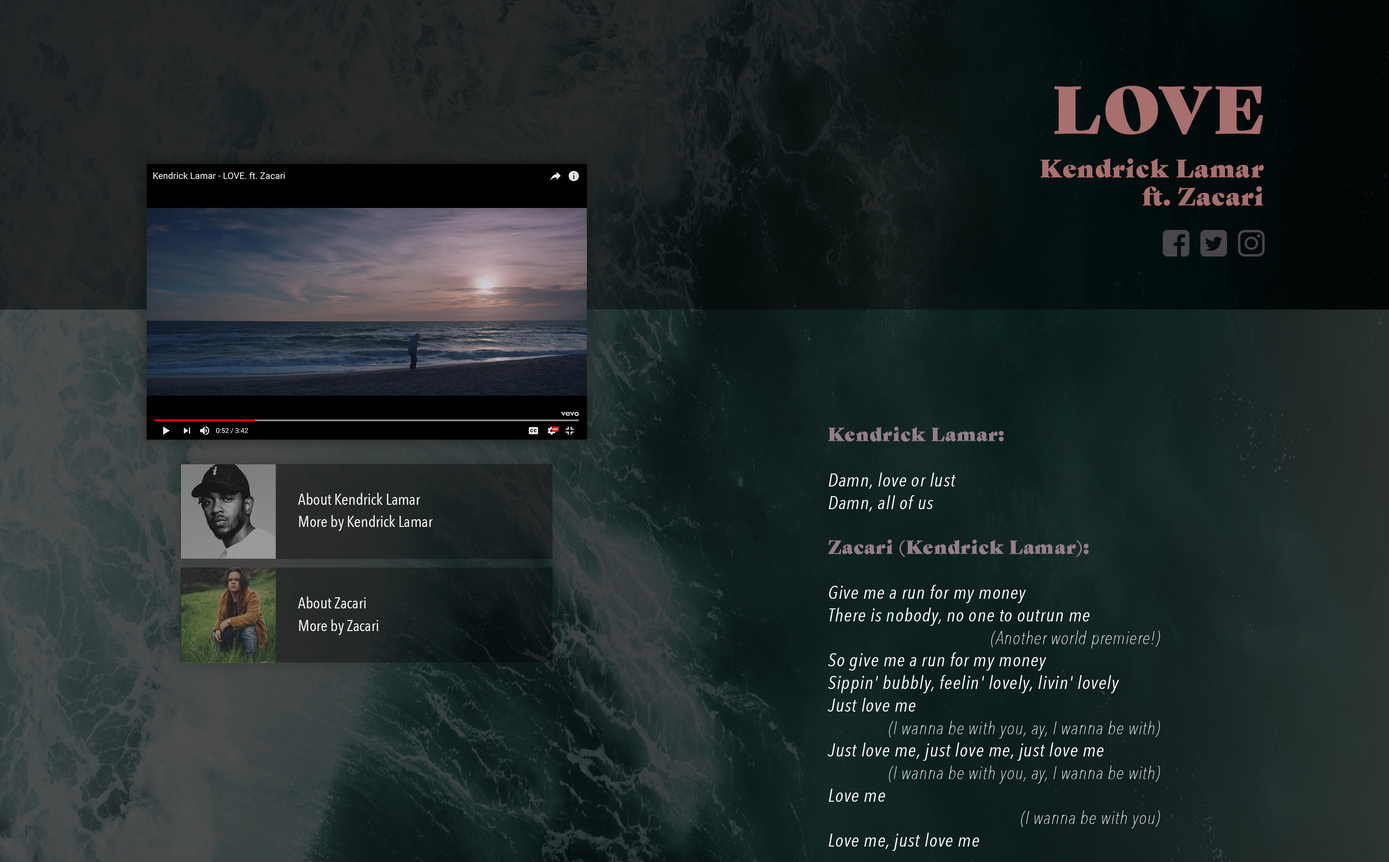
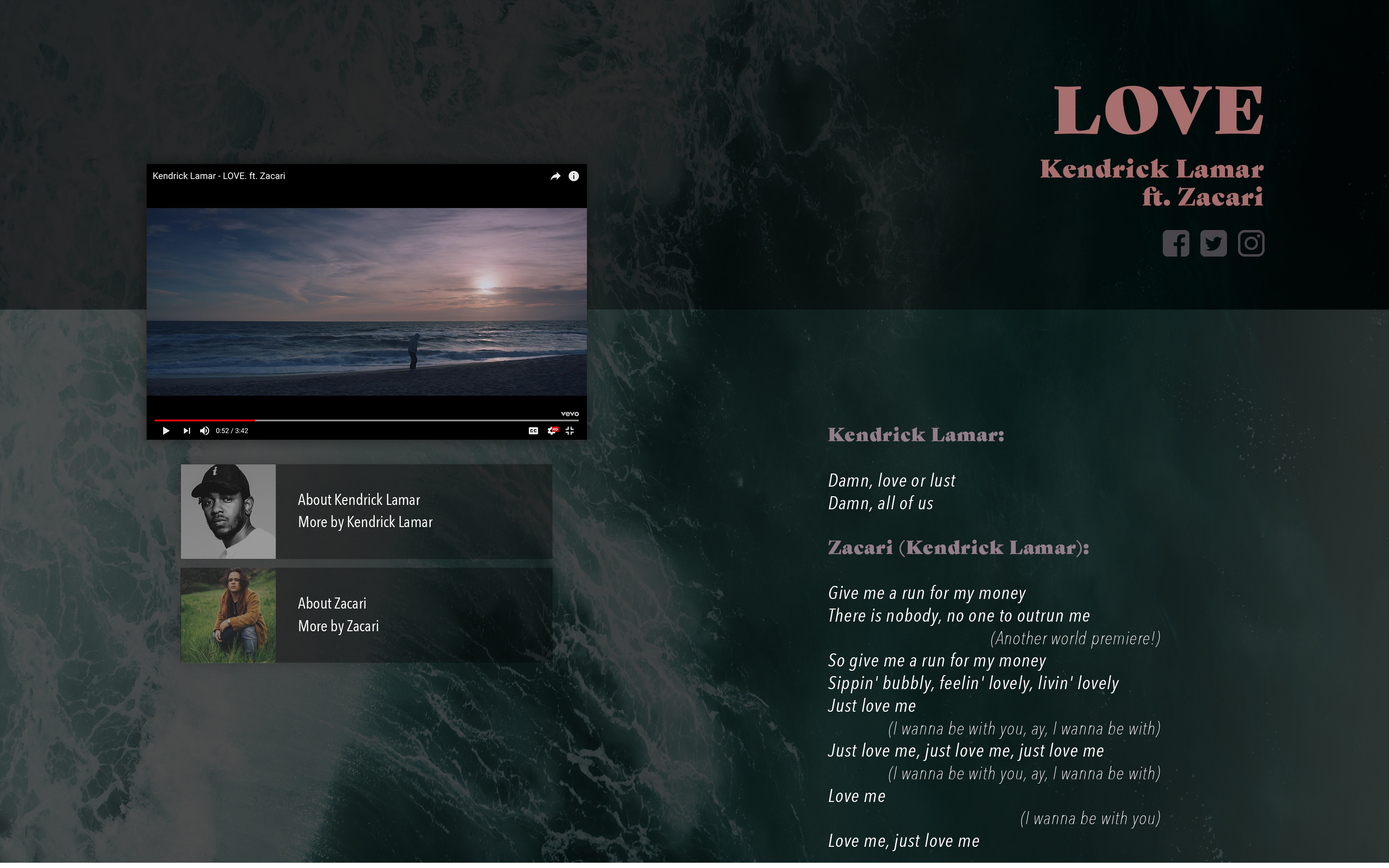
improvement plan

diff --git a/lyrics/improvement-plan.html b/lyrics/improvement-plan.html
@@ -1,0 +1,32 @@
+<!DOCTYPE html>
+<html>
+<head>
+	<title>Improvement Plan</title>
+	<meta charset="utf-8">
+	<style type="text/css">
+		body {
+			font-family: sans-serif;
+			width: 80%;
+			margin: 50px auto;
+		}
+
+		img {
+			width: 1000px;
+		}
+	</style>
+</head>
+<body>
+	<h1>Improvement Plan – Arushee Agrawal</h1>
+	<h3>Feedback from Annie</h3>
+	<ul>
+		<li>Bring the left and right side closer together</li>
+		<li>Change artist blocks to song suggestions</li>
+		<li>Make only the chorus italicized</li>
+		<li>Reduced opacity for all the lyric blocks, and brighten/opaque ones that you are scrolling over</li>
+	</ul>
+	<h3>Original Design</h3>
+	<img src="mockup.jpg">
+	<h3>Updated Design</h3>
+	<img src="new_mockup.jpg">
+</body>
+</html>
